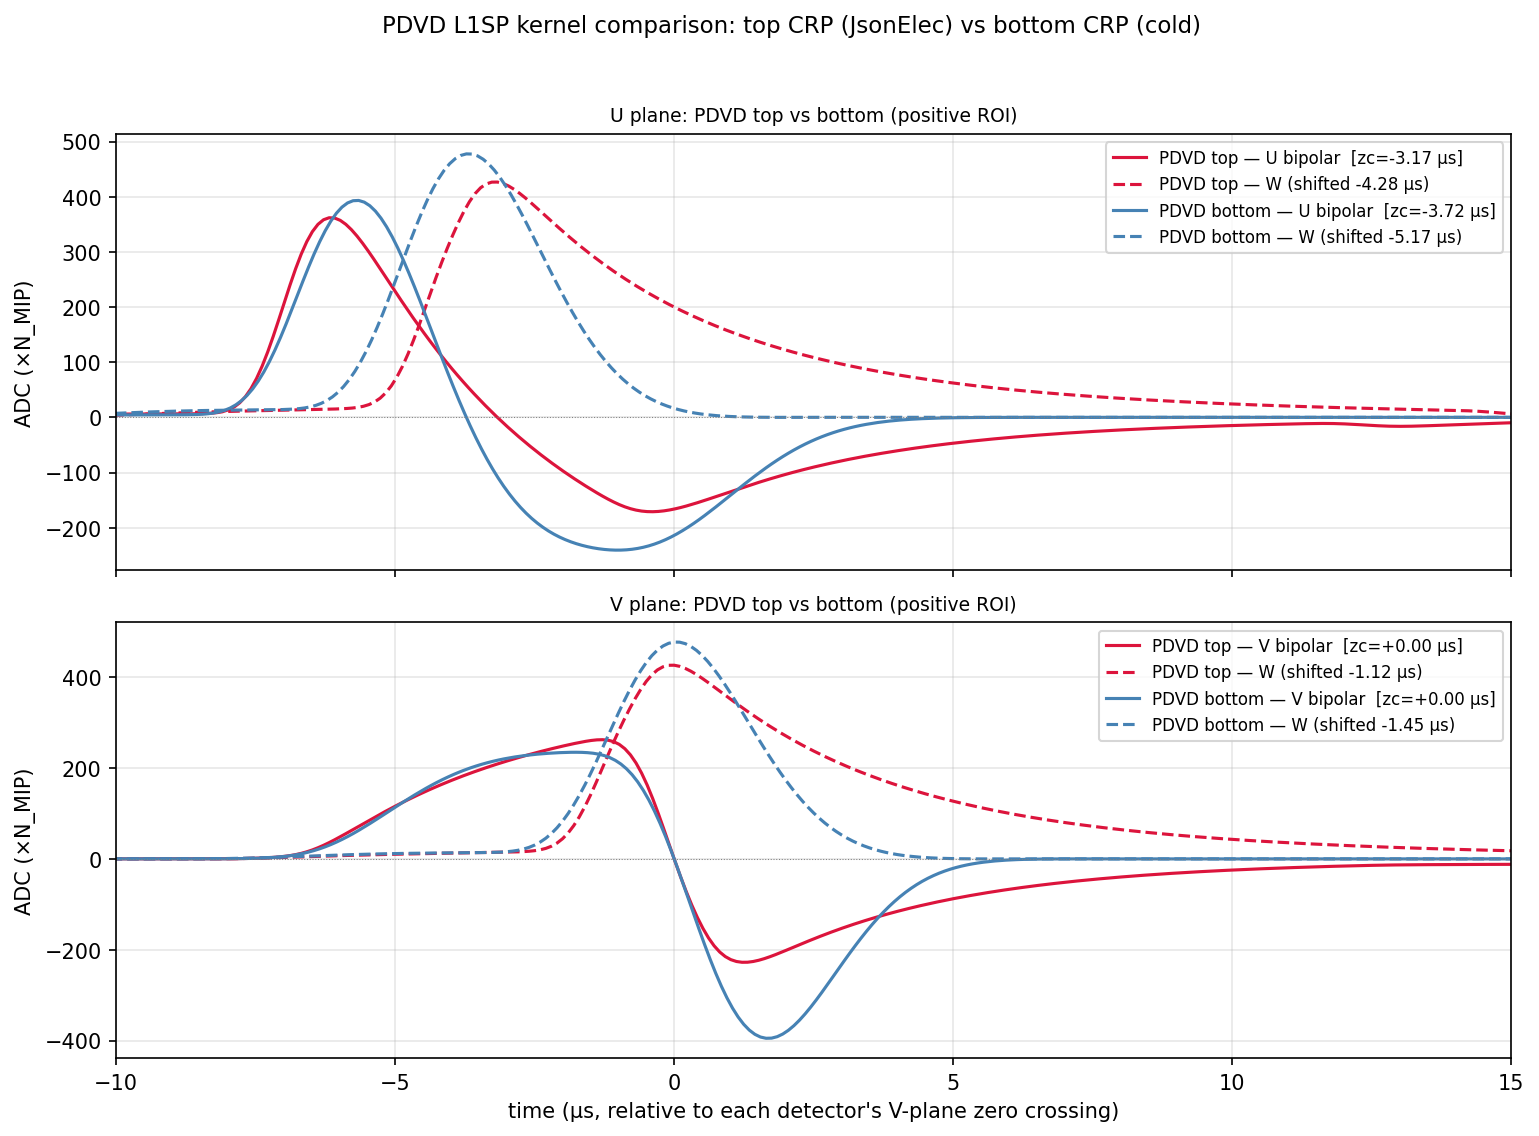
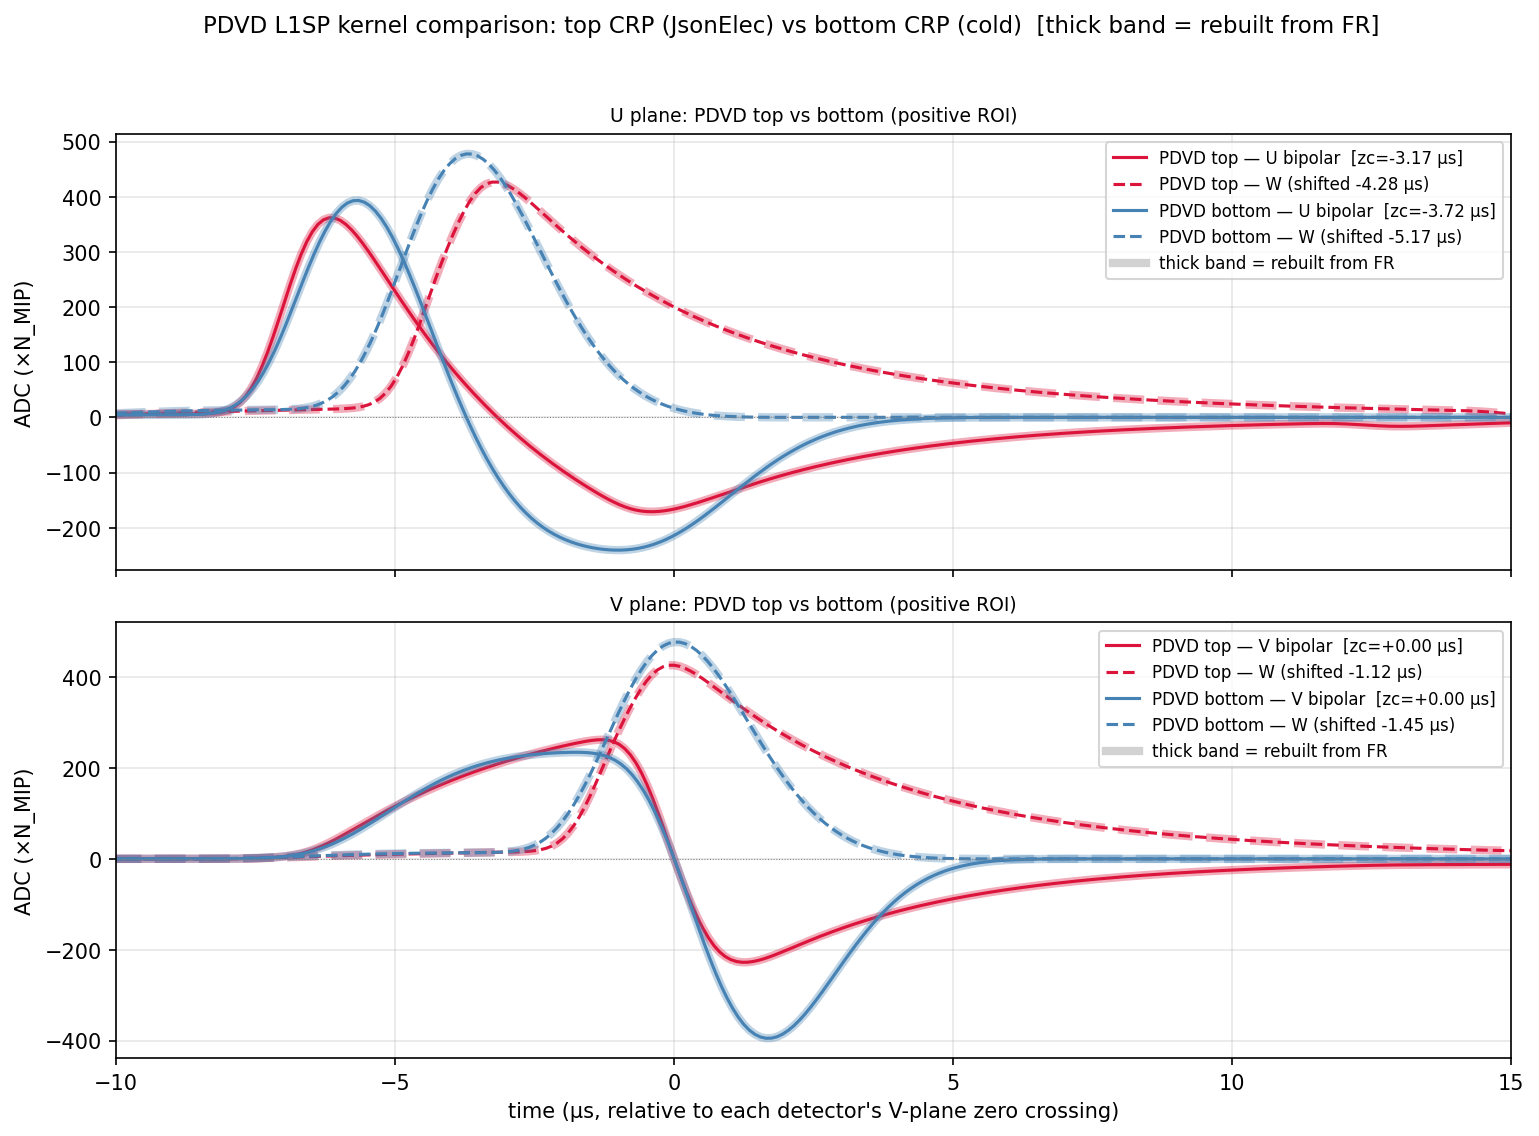
pdvd: L1SP viewer LASSO-declined handling + FR-rebuild kernel overlay
- nf_plot/l1sp_roi_viewer.py: pad declined-LASSO entries back to ROI
  length, annotate header, zero the smeared panel; auto-switch the
  U/V/W radio when the selected plane has no ROIs for the current
  event/APA.
- sp_plot/track_response_l1sp_pdvd.py: rebuild kernels in-process
  from FR + electronics preset and overlay as translucent bands
  behind the from-JSON curves; --no-rebuild to skip.
- Refresh reference PNGs after toolkit-side kernel regeneration
  (asymmetric build_G window for negative-polarity trough coverage).
- README updates in nf_plot/ and sp_plot/.

diff --git a/pdvd/sp_plot/track_response_l1sp_pdvd.py b/pdvd/sp_plot/track_response_l1sp_pdvd.py
@@ -37,9 +37,30 @@ import matplotlib
 matplotlib.use('Agg')
 import matplotlib.pyplot as plt
 
-from wirecell.sigproc.l1sp import load_l1sp_kernels, negative_half
+from wirecell.sigproc.l1sp import build_l1sp_kernels, load_l1sp_kernels, negative_half
+from wirecell.sigproc.track_response import load_detector_config
+from wirecell import units
 
 WORKDIR = os.path.dirname(os.path.abspath(__file__))
+
+
+def _rebuild_from_fr(detector_key):
+    """Rebuild PDVD kernels from the same fr/elec preset that produced the JSON files."""
+    cfg = load_detector_config(detector_key)
+    er_kind = cfg.get('er_kind', 'cold')
+    ow = cfg.get('output_window')
+    return build_l1sp_kernels(
+        fr_file               = cfg['fr'],
+        gain                  = cfg['gain']    if er_kind == 'cold' else 0.0,
+        shaping               = cfg['shaping'] if er_kind == 'cold' else 0.0,
+        postgain              = cfg['postgain'],
+        adc_per_mv            = cfg['adc_per_mv'],
+        coarse_time_offset_us = -8.0,
+        fine_time_offset_us   =  0.0,
+        er_kind               = er_kind,
+        er_file               = cfg.get('er_file'),
+        output_window_us      = float(ow / units.us) if ow else None,
+    )
 
 # PDVD U/V wire pitch is 7.65 mm.  Used only for the ADC×N_MIP overlay.
 PDVD_PITCH_CM = 0.765
@@ -97,8 +118,11 @@ def report(data):
               f'W shift (positive case)={p["positive"]["unipolar_time_offset_us"]:+.3f} µs')
 
 
-def plot_pdvd_plane(data, plane_idx, outpath):
-    """Two-panel figure for one plane: positive ROI (top) + negative ROI (bottom)."""
+def plot_pdvd_plane(data, plane_idx, outpath, ref_data=None):
+    """Two-panel figure for one plane: positive ROI (top) + negative ROI (bottom).
+
+    If ref_data is provided (FR rebuild), its curves are drawn as thick translucent
+    bands behind the from-file curves so any mismatch is immediately visible."""
     plane_label = {0: 'U', 1: 'V'}[plane_idx]
     k_bip = data['kU'] if plane_idx == 0 else data['kV']
     t  = data['t_us']
@@ -116,12 +140,21 @@ def plot_pdvd_plane(data, plane_idx, outpath):
 
     # positive case: bipolar + W (collection-on-induction)
     ax = axes[0]
+    if ref_data is not None:
+        r_bip   = ref_data['kU'] if plane_idx == 0 else ref_data['kV']
+        r_shift = ref_data['planes'][plane_idx]['positive']['unipolar_time_offset_us']
+        ax.plot(t_plot, r_bip * Nm, color='steelblue', lw=4, alpha=0.35, ls='-',
+                label='_bipolar (rebuilt from FR)')
+        ax.plot(t_plot + r_shift, ref_data['kW'] * Nm, color='darkorange', lw=4, alpha=0.35, ls='-',
+                label='_unipolar (rebuilt from FR)')
     ax.plot(t_plot, k_bip * Nm, color='steelblue', lw=1.5,
             label=f'{plane_label}-plane bipolar (×{Nm:.0f} e⁻/pitch)  '
                   f'[zero-crossing at {zc_in_plot:+.2f} µs]')
     ax.plot(t_plot + shift_W, data['kW'] * Nm, color='darkorange', lw=1.5,
             label=f'W-plane unipolar  '
                   f'(W-peak ↔ {plane_label}-zero-crossing; raw shift {shift_W:+.2f} µs)')
+    if ref_data is not None:
+        ax.plot([], [], color='gray', lw=4, alpha=0.35, label='thick band = rebuilt from FR')
     ax.axhline(0, color='gray', lw=0.5, ls=':')
     ax.axvline(zc_in_plot, color='steelblue', lw=0.5, ls=':')
     ax.set_xlim(PLOT_XLIM)
@@ -133,11 +166,19 @@ def plot_pdvd_plane(data, plane_idx, outpath):
 
     # negative case: bipolar + neg-half(bipolar), no shift
     ax = axes[1]
+    if ref_data is not None:
+        r_bip = ref_data['kU'] if plane_idx == 0 else ref_data['kV']
+        ax.plot(t_plot, r_bip * Nm, color='steelblue', lw=4, alpha=0.35, ls='-',
+                label='_bipolar (rebuilt from FR)')
+        ax.plot(t_plot, negative_half(r_bip) * Nm, color='forestgreen', lw=4, alpha=0.35, ls='-',
+                label='_neg-half (rebuilt from FR)')
     ax.plot(t_plot, k_bip * Nm, color='steelblue', lw=1.5,
             label=f'{plane_label}-plane bipolar (×{Nm:.0f} e⁻/pitch)  '
                   f'[zero-crossing at {zc_in_plot:+.2f} µs]')
     ax.plot(t_plot, negative_half(k_bip) * Nm, color='forestgreen', lw=1.5, ls='--',
             label=f'neg-half({plane_label}) — anode-induction unipolar (no shift)')
+    if ref_data is not None:
+        ax.plot([], [], color='gray', lw=4, alpha=0.35, label='thick band = rebuilt from FR')
     ax.axhline(0, color='gray', lw=0.5, ls=':')
     ax.set_xlim(PLOT_XLIM)
     ax.set_ylabel('ADC (×N_MIP)')
@@ -147,17 +188,21 @@ def plot_pdvd_plane(data, plane_idx, outpath):
                  f'(anode-induction)', fontsize=9)
 
     axes[-1].set_xlabel('time (µs, relative to V-plane zero crossing)')
+    overlay_note = ('  [thick band = rebuilt from FR; thin line = from file]'
+                    if ref_data is not None else '')
     fig.suptitle(f'{data["label"]} L1SPFilterPD — {plane_label} plane  '
-                 f'(N_MIP/pitch={Nm:.0f} e⁻;  V-zero-crossing @ {t_zc_V:+.2f} µs)',
+                 f'(N_MIP/pitch={Nm:.0f} e⁻;  V-zero-crossing @ {t_zc_V:+.2f} µs)'
+                 f'{overlay_note}',
                  fontsize=10)
     plt.savefig(outpath, dpi=150, bbox_inches='tight')
     plt.close()
     print(f'  → {outpath}')
 
 
-def plot_compare(top_data, bot_data, outpath):
+def plot_compare(top_data, bot_data, outpath, ref_top=None, ref_bot=None):
     """Top-vs-bottom overlay: each plane as one row, bipolar + W on a single
-    panel, time axis relative to each detector's own V-plane zero crossing."""
+    panel, time axis relative to each detector's own V-plane zero crossing.
+    ref_top/ref_bot, if provided, are drawn as thick translucent bands."""
     fig, axes = plt.subplots(2, 1, figsize=(12, 8), sharex=True)
     fig.subplots_adjust(hspace=0.12)
 
@@ -165,12 +210,20 @@ def plot_compare(top_data, bot_data, outpath):
         (axes[0], 0, 'U'),
         (axes[1], 1, 'V'),
     ):
-        for det, color in ((top_data, COLOR_TOP), (bot_data, COLOR_BOTTOM)):
+        for det, ref, color in ((top_data, ref_top, COLOR_TOP),
+                                (bot_data, ref_bot, COLOR_BOTTOM)):
             t_zc_V  = det['planes'][1]['zero_crossing_us']
             t_plot  = det['t_us'] - t_zc_V
             k_bip   = det['kU'] if plane_idx == 0 else det['kV']
             shift_W = det['planes'][plane_idx]['positive']['unipolar_time_offset_us']
             zc_local = det['planes'][plane_idx]['zero_crossing_us'] - t_zc_V
+
+            if ref is not None:
+                r_bip   = ref['kU'] if plane_idx == 0 else ref['kV']
+                r_shift = ref['planes'][plane_idx]['positive']['unipolar_time_offset_us']
+                ax.plot(t_plot, r_bip * ref['N_mip'], color=color, lw=4, alpha=0.35)
+                ax.plot(t_plot + r_shift, ref['kW'] * ref['N_mip'],
+                        color=color, lw=4, alpha=0.35, ls='--')
 
             ax.plot(t_plot, k_bip * det['N_mip'], color=color, lw=1.5,
                     label=f'{det["label"]} — {plane_label} bipolar  '
@@ -178,6 +231,9 @@ def plot_compare(top_data, bot_data, outpath):
             ax.plot(t_plot + shift_W, det['kW'] * det['N_mip'],
                     color=color, lw=1.5, ls='--',
                     label=f'{det["label"]} — W (shifted {shift_W:+.2f} µs)')
+
+        if ref_top is not None or ref_bot is not None:
+            ax.plot([], [], color='gray', lw=4, alpha=0.35, label='thick band = rebuilt from FR')
         ax.axhline(0, color='gray', lw=0.5, ls=':')
         ax.set_xlim(PLOT_XLIM)
         ax.set_ylabel('ADC (×N_MIP)')
@@ -187,8 +243,9 @@ def plot_compare(top_data, bot_data, outpath):
                      fontsize=9)
 
     axes[-1].set_xlabel('time (µs, relative to each detector\'s V-plane zero crossing)')
-    fig.suptitle('PDVD L1SP kernel comparison: top CRP (JsonElec) vs bottom CRP (cold)',
-                 fontsize=11)
+    overlay_note = '  [thick band = rebuilt from FR]' if (ref_top or ref_bot) else ''
+    fig.suptitle('PDVD L1SP kernel comparison: top CRP (JsonElec) vs bottom CRP (cold)'
+                 + overlay_note, fontsize=11)
     plt.savefig(outpath, dpi=150, bbox_inches='tight')
     plt.close()
     print(f'  → {outpath}')
@@ -204,6 +261,8 @@ def main():
     parser.add_argument('--bottom-file', default='pdvd_bottom_l1sp_kernels.json.bz2',
                         help='PDVD-bottom kernel JSON+bz2 (default: '
                              'pdvd_bottom_l1sp_kernels.json.bz2 via WIRECELL_PATH).')
+    parser.add_argument('--no-rebuild', action='store_true',
+                        help='Skip the FR rebuild overlay (faster; just plot the JSON file).')
     args = parser.parse_args()
 
     print(f'Loading PDVD-top    kernels from {args.top_file}')
@@ -217,12 +276,20 @@ def main():
     report(top)
     report(bot)
 
+    ref_top = ref_bot = None
+    if not args.no_rebuild:
+        print('\nRebuilding PDVD top    kernels from FR + electronics...')
+        ref_top = _kernels_to_data(_rebuild_from_fr('pdvd-top'),    'PDVD top (FR rebuild)')
+        print('Rebuilding PDVD bottom kernels from FR + electronics...')
+        ref_bot = _kernels_to_data(_rebuild_from_fr('pdvd-bottom'), 'PDVD bottom (FR rebuild)')
+
     print()
-    plot_pdvd_plane(top, 0, os.path.join(WORKDIR, 'track_response_l1sp_pdvd_top_U.png'))
-    plot_pdvd_plane(top, 1, os.path.join(WORKDIR, 'track_response_l1sp_pdvd_top_V.png'))
-    plot_pdvd_plane(bot, 0, os.path.join(WORKDIR, 'track_response_l1sp_pdvd_bottom_U.png'))
-    plot_pdvd_plane(bot, 1, os.path.join(WORKDIR, 'track_response_l1sp_pdvd_bottom_V.png'))
-    plot_compare(top, bot, os.path.join(WORKDIR, 'track_response_l1sp_pdvd_compare.png'))
+    plot_pdvd_plane(top, 0, os.path.join(WORKDIR, 'track_response_l1sp_pdvd_top_U.png'),    ref_data=ref_top)
+    plot_pdvd_plane(top, 1, os.path.join(WORKDIR, 'track_response_l1sp_pdvd_top_V.png'),    ref_data=ref_top)
+    plot_pdvd_plane(bot, 0, os.path.join(WORKDIR, 'track_response_l1sp_pdvd_bottom_U.png'), ref_data=ref_bot)
+    plot_pdvd_plane(bot, 1, os.path.join(WORKDIR, 'track_response_l1sp_pdvd_bottom_V.png'), ref_data=ref_bot)
+    plot_compare(top, bot, os.path.join(WORKDIR, 'track_response_l1sp_pdvd_compare.png'),
+                 ref_top=ref_top, ref_bot=ref_bot)
 
     print('\nDone.')
 

diff --git a/pdvd/nf_plot/l1sp_roi_viewer.py b/pdvd/nf_plot/l1sp_roi_viewer.py
@@ -169,6 +169,15 @@ def main(argv):
 
     def update_roi_options():
         paths = selected_paths()
+        if not paths:
+            # Auto-switch to the first plane that has ROIs for this event/APA.
+            run_evt_apa = event_select.value
+            run_evt, apa_part = run_evt_apa.split("/")
+            apa = int(apa_part[len("apa"):])
+            for p in [0, 1, 2]:
+                if roi_index.get((run_evt, apa), {}).get(p, []):
+                    plane_radio.active = p  # triggers on_plane_change → update_roi_options
+                    return
         opts = [roi_label(p) for p in paths]
         roi_select.options = opts
         if opts and (roi_select.value not in opts):
@@ -188,15 +197,20 @@ def main(argv):
         npz_path = paths[labels.index(label)]
         try:
             z = np.load(npz_path)
+            raw    = z["raw"].astype(float)
+            decon  = z["decon"].astype(float)
+            lasso  = z["lasso"].astype(float)
+            smear  = z["smeared"].astype(float)
         except Exception as e:
             info_div.text = f"<b>Error loading {npz_path}:</b> {e}"
+            for src in (src_raw, src_decon, src_lasso, src_smear):
+                src.data = dict(x=[], y=[])
             return
-
-        raw    = z["raw"].astype(float)
-        decon  = z["decon"].astype(float)
-        lasso  = z["lasso"].astype(float)
-        smear  = z["smeared"].astype(float)
         nbin   = len(raw)
+        # lasso is empty when LASSO declined (sum_beta below threshold); pad
+        # with zeros so all four ColumnDataSources get the same length.
+        if len(lasso) != nbin:
+            lasso = np.zeros(nbin)
         start  = int(z["start_tick"][0])
         end    = int(z["end_tick"][0])
         ch     = int(z["channel"][0])
@@ -217,10 +231,11 @@ def main(argv):
 
         plane_name = ["U", "V", "W"][plane] if plane < 3 else str(plane)
         pol_str = "positive (collection-on-induction)" if pol > 0 else "negative (anode-induction)"
+        lasso_note = "" if int(z["lasso"].size) > 0 else " &nbsp; <i>(LASSO declined — sum_beta below threshold)</i>"
         info_div.text = (
             f"<b>ch={ch} &nbsp; plane={plane_name} &nbsp; ticks=[{start},{end}) "
             f"nbin={nbin}</b><br>"
-            f"polarity: {pol_str}<br>"
+            f"polarity: {pol_str}{lasso_note}<br>"
             f"frame_ident={frame} &nbsp; call_count={call}"
         )
 

diff --git a/pdvd/nf_plot/README.md b/pdvd/nf_plot/README.md
@@ -93,10 +93,24 @@ ssh -L 5007:localhost:5007 user@workstation     # from laptop
 # open http://localhost:5007/l1sp_roi_viewer
 ```
 
-The viewer code is shared with PDHD (verbatim copy of
-`pdhd/nf_plot/l1sp_roi_viewer.py`); it discovers APA index from the
-`apa<N>_<run>_<evt>` dump-tag prefix and so handles the full PDVD anode
-range (0–7) without further changes.
+The viewer started as a verbatim copy of
+`pdhd/nf_plot/l1sp_roi_viewer.py`; the PDVD copy has since added the
+auto-plane-switch and LASSO-declined handling described below and is
+the canonical version (port the changes back to PDHD when next
+needed).  It discovers APA index from the `apa<N>_<run>_<evt>`
+dump-tag prefix and so handles the full PDVD anode range (0–7)
+without further changes.
+
+When a triggered ROI's LASSO is declined (the cxx writes back zeros
+because `sum_beta` did not pass the admit threshold), the dump still
+saves the entry with an empty `lasso` array.  The viewer pads it back
+to ROI length, draws the "LASSO fit" panel as zeros, annotates the
+header with *"LASSO declined — sum_beta below threshold"*, and zeroes
+the smeared panel.  This is the expected display for tagger-fired
+but solver-rejected ROIs (e.g. negative-polarity dips with no
+in-window basis1 coverage in older kernel files).  The viewer also
+auto-switches the U/V/W radio button if the currently selected plane
+has no ROIs for the chosen event/APA.
 
 **First-time process-mode sanity check.**  After step C above, before
 trusting the L1SP-modified output, run the same event with `-x` to get

diff --git a/pdvd/sp_plot/README.md b/pdvd/sp_plot/README.md
@@ -99,9 +99,18 @@ overlays top and bottom on a shared time axis (relative to each
 detector's V-plane zero crossing) so the relative W shift between
 the two CRPs is visible at a glance.
 
+By default the script also rebuilds the kernels in-process from the
+field-response file and electronics preset (`load_detector_config` +
+`build_l1sp_kernels`) and overlays them as thick translucent bands
+behind the from-JSON curves.  Any drift between the on-disk JSON and
+the FR source-of-truth is then immediately visible (the bands won't
+hug the thin lines).  Pass `--no-rebuild` to skip the overlay if you
+just want to inspect the JSON.
+
 ```bash
 python track_response_l1sp_pdvd.py
 # --top-file / --bottom-file override the defaults
+# --no-rebuild skips the FR-rebuild overlay (faster)
 ```
 
 Mirrors the PDHD validator at
